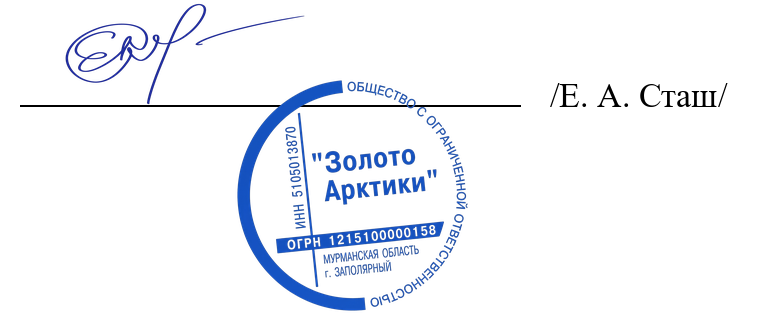
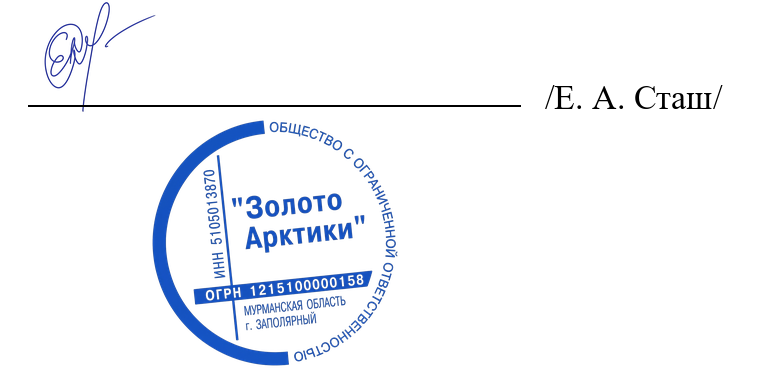
fix: align BM stamp below signature line

diff --git a/scripts/bmDocxSignatureAlignmentTest.ts b/scripts/bmDocxSignatureAlignmentTest.ts
@@ -17,8 +17,8 @@ assert.match(source, /getExecutorPreLineStackHeight/, 'signed spacer must be bas
 assert.match(source, /Math\.max\(0,\s*executorPreLineStackHeight - EMPTY_SIGNATURE_PARAGRAPH_LINE_TWP\)/, 'guest spacer must follow only the executor pre-line image stack height.');
 assert.ok(fs.existsSync(executorSignatureBlockPath), 'executor signature block asset must exist.');
 assert.match(source, /executorSignatureBlockPath\?: string/, 'DOCX builder must accept the fixed executor signature block asset.');
-assert.match(source, /EXECUTOR_SIGNATURE_BLOCK_PX\s*=\s*\{\s*width:\s*280,\s*height:\s*118\s*\}/, 'executor signature block must preserve readable signature, stamp, and line sizes.');
-assert.match(source, /EXECUTOR_SIGNATURE_BLOCK_LINE_TWP\s*=\s*39\s*\*\s*15/, 'guest line alignment must follow the line position inside the fixed executor block.');
+assert.match(source, /EXECUTOR_SIGNATURE_BLOCK_PX\s*=\s*\{\s*width:\s*280,\s*height:\s*144\s*\}/, 'executor signature block must preserve readable signature, stamp, and line sizes.');
+assert.match(source, /EXECUTOR_SIGNATURE_BLOCK_LINE_TWP\s*=\s*20\s*\*\s*15/, 'guest line alignment must follow the line position inside the fixed executor block.');
 assert.match(source, /hasExecutorSignatureBlockAsset/, 'signed layout must prefer the fixed executor signature block when packaged.');
 assert.match(source, /transformation:\s*EXECUTOR_SIGNATURE_BLOCK_PX/, 'signed layout must render the fixed executor signature block.');
 assert.doesNotMatch(source, /floating:/, 'BM DOCX signature layout must not use floating images because LibreOffice conversion can hang.');

diff --git a/src/utils/docx/bmDocxBuilder.ts b/src/utils/docx/bmDocxBuilder.ts
@@ -282,8 +282,8 @@ function buildClientRequisitesCell(vars: BmDocxVariables): TableCell {
 
 const STAMP_PX  = { width: 58,  height: 58  } as const;
 const SIG_PX    = { width: 72,  height: 28  } as const;
-const EXECUTOR_SIGNATURE_BLOCK_PX = { width: 280, height: 118 } as const;
-const EXECUTOR_SIGNATURE_BLOCK_LINE_TWP = 39 * 15;
+const EXECUTOR_SIGNATURE_BLOCK_PX = { width: 280, height: 144 } as const;
+const EXECUTOR_SIGNATURE_BLOCK_LINE_TWP = 20 * 15;
 const AFTER_STAMP = 20;   // twips spacing after stamp paragraph
 const AFTER_SIG   = 0;    // twips spacing after signature paragraph
 

diff --git a/docs/WORKLOG.md b/docs/WORKLOG.md
@@ -2216,3 +2216,36 @@ Checks run:
 
 **Risks/TODOs**:
 - The layout now uses a larger fixed image block; if long guest requisites push section 15 down, check page 6 manually.
+
+### 2026-06-25 13:11:13 +03:00 — Keep BM stamp below the signature line
+
+Files changed:
+- `public/pdfme-assets/executor-signature-block.png`
+- `src/utils/docx/bmDocxBuilder.ts`
+- `scripts/bmDocxSignatureAlignmentTest.ts`
+- `docs/WORKLOG.md`
+
+**Task**: Correct the remaining visual skew in the BM "На отправку" executor/guest signature row.
+
+**Completed**:
+1. Regenerated the fixed executor signature block so the stamp starts below the horizontal signature line instead of overlapping it.
+2. Adjusted the fixed block render height to `280x144`.
+3. Reduced the guest signature spacer so the guest line aligns with the executor signature line.
+4. Updated the regression checks for the new block dimensions and alignment constant.
+5. Rendered the signed PDF page 6 and visually checked that the stamp is below the line and the guest/executor lines are level.
+6. Rebuilt the NSIS installer and confirmed the fixed asset is packaged.
+
+Checks run:
+- `npx tsx scripts/bmDocxSignatureAlignmentTest.ts` — passed
+- `npm run lint` — passed
+- `npx tsx scripts/gen_bm_docx_standalone.ts` — passed
+- Rendered `scratch/bm_contract_signed.pdf` page 6 with Poppler and visually checked layout — passed
+- `npm run build` — passed
+- `npm run electron:installer` — passed
+- Package check: `release/win-unpacked/resources/app/public/pdfme-assets/executor-signature-block.png` present
+
+**Next**:
+- Launch the rebuilt packaged CRM and regenerate the "На отправку" PDF in the app for final user check.
+
+**Risks/TODOs**:
+- The signature block is a fixed image asset; if director signature/name changes, regenerate `executor-signature-block.png`.
